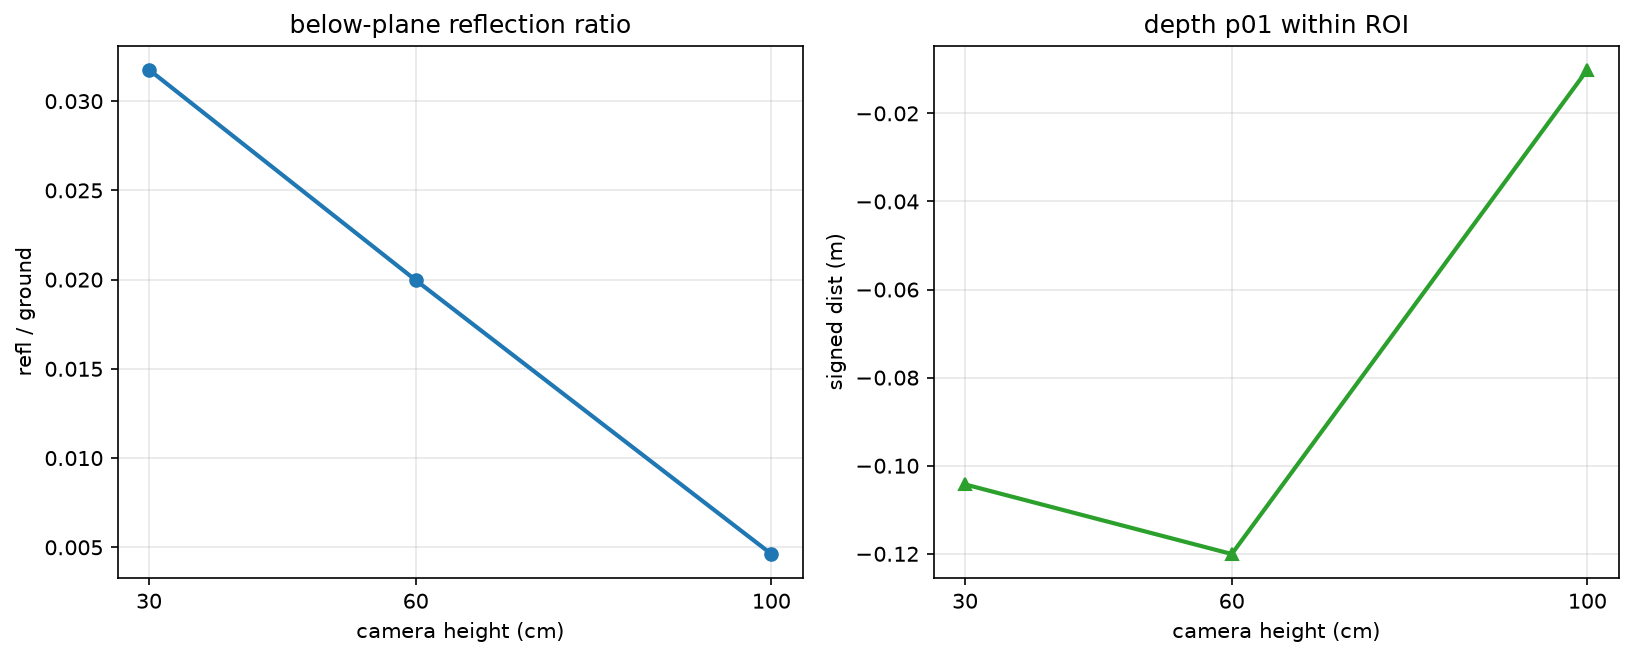
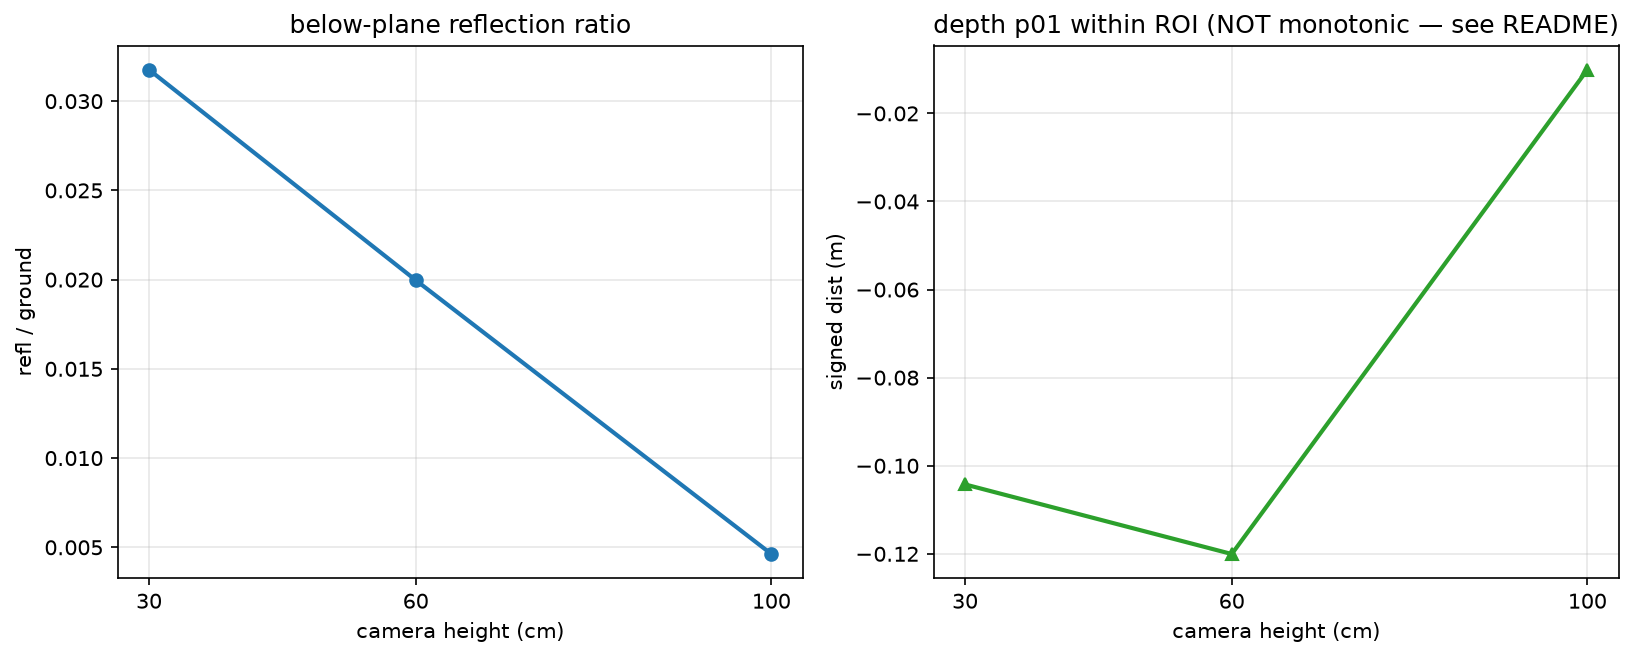
Fix notebook execution order and clarify scope of results
The published notebook could not run top-to-bottom: the cells defining `rows`
and `sweep` had been overwritten, leaving NameError on first run, plus two
duplicated cells. Restored the table and sweep cells and verified the notebook
now executes end to end (12/12 code cells, rows=3, sweep=16).

- Anchor repo-root detection on README.md + data/README.md, since data/raw/ does
  not exist in a fresh clone (git stores no empty dirs); create it on demand
- README: report that depth_p01 is NOT monotonic (60cm deeper than 30cm), so the
  result supports a height effect on artifact frequency, not depth
- Rename docs PDF to initial_experiment_design.pdf and note it is a proposal
  (6 dry/wet scans, Open3D) rather than the final 3-scan implementation
- src/topdown_view.py: resolve PLY path via repo root instead of a bare filename

diff --git a/src/topdown_view.py b/src/topdown_view.py
@@ -1,10 +1,14 @@
+from pathlib import Path
+
 import numpy as np
 import matplotlib.pyplot as plt
 from plyfile import PlyData
 
-ply_path = "high.ply"   # 여기를 실제 .ply 파일명으로 수정
+# 저장소 구조(data/raw/)에 맞춘 경로. 파일명만 바꿔 쓰면 된다.
+REPO_ROOT = Path(__file__).resolve().parents[1]
+ply_path = REPO_ROOT / "data" / "raw" / "high.ply"
 
-v = PlyData.read(ply_path)["vertex"]
+v = PlyData.read(str(ply_path))["vertex"]
 pts = np.stack([v["x"], v["y"], v["z"]], axis=1)
 
 print("num points:", pts.shape[0])

diff --git a/README.md b/README.md
@@ -33,16 +33,20 @@ committed — see [`data/README.md`](data/README.md).
 
 Below-plane reflection artifacts, measured inside the puddle ROI:
 
-| Camera height | `refl_ratio` | `n_refl` (raw) | ground pts |
-|---|---|---|---|
-| 30 cm  | 0.0318 | 4 388 | 138 155 |
-| 60 cm  | 0.0200 | 3 657 | 183 155 |
-| 100 cm | 0.0046 | 1 241 | 268 430 |
+| Camera height | `refl_ratio` | `n_refl` (raw) | ground pts | `depth_p01` |
+|---|---|---|---|---|
+| 30 cm  | 0.0318 | 4 388 | 138 155 | −0.104 m |
+| 60 cm  | 0.0200 | 3 657 | 183 155 | −0.120 m |
+| 100 cm | 0.0046 | 1 241 | 268 430 | −0.010 m |
 
-- The artifact **decreases monotonically** with camera height — about a **7× drop**
-  from 30 cm to 100 cm. In the 30 cm side view a clear downward reflection tail is
-  visible below the road plane; it is far sparser at 60/100 cm.
+- **How often** artifacts occur decreases monotonically with camera height — about a
+  **7× drop** from 30 cm to 100 cm. In the 30 cm side view a clear downward reflection
+  tail is visible below the road plane; it is far sparser at 60/100 cm.
 - The trend holds in **raw counts**, not only in the normalized ratio.
+- **How deep** they go does *not* follow the same pattern: `depth_p01` is deeper at
+  60 cm (−0.120 m) than at 30 cm (−0.104 m). So this result supports a height effect on
+  the **frequency** of below-plane artifacts, **not** on their depth. The original
+  hypothesis ("lower camera → more *and* deeper artifacts") is only half supported.
 - It is **robust to the ROI choice**: without the ROI (whole crop) the ratios are
   0.0625 / 0.0225 / 0.0065 — same ordering, same direction.
 - **Sensitivity:** across a 4×4 grid of below-plane thresholds, the
@@ -76,7 +80,9 @@ scaniverse-3dgs-project/
 ├─ src/
 │  └─ topdown_view.py      # helper: top-down view / can-center picker
 ├─ docs/
-│  └─ wet_road_3dgs.pdf    # background write-up (physics + experiment design)
+│  └─ initial_experiment_design.pdf
+│     # initial proposal (physics rationale; planned 6 dry/wet scans via Open3D).
+│     # The final implementation analyses 3 wet-road scans with plyfile — see Results.
 ├─ data/
 │  └─ README.md            # how to place the (git-ignored) PLY files
 └─ results/                # exported figures used above